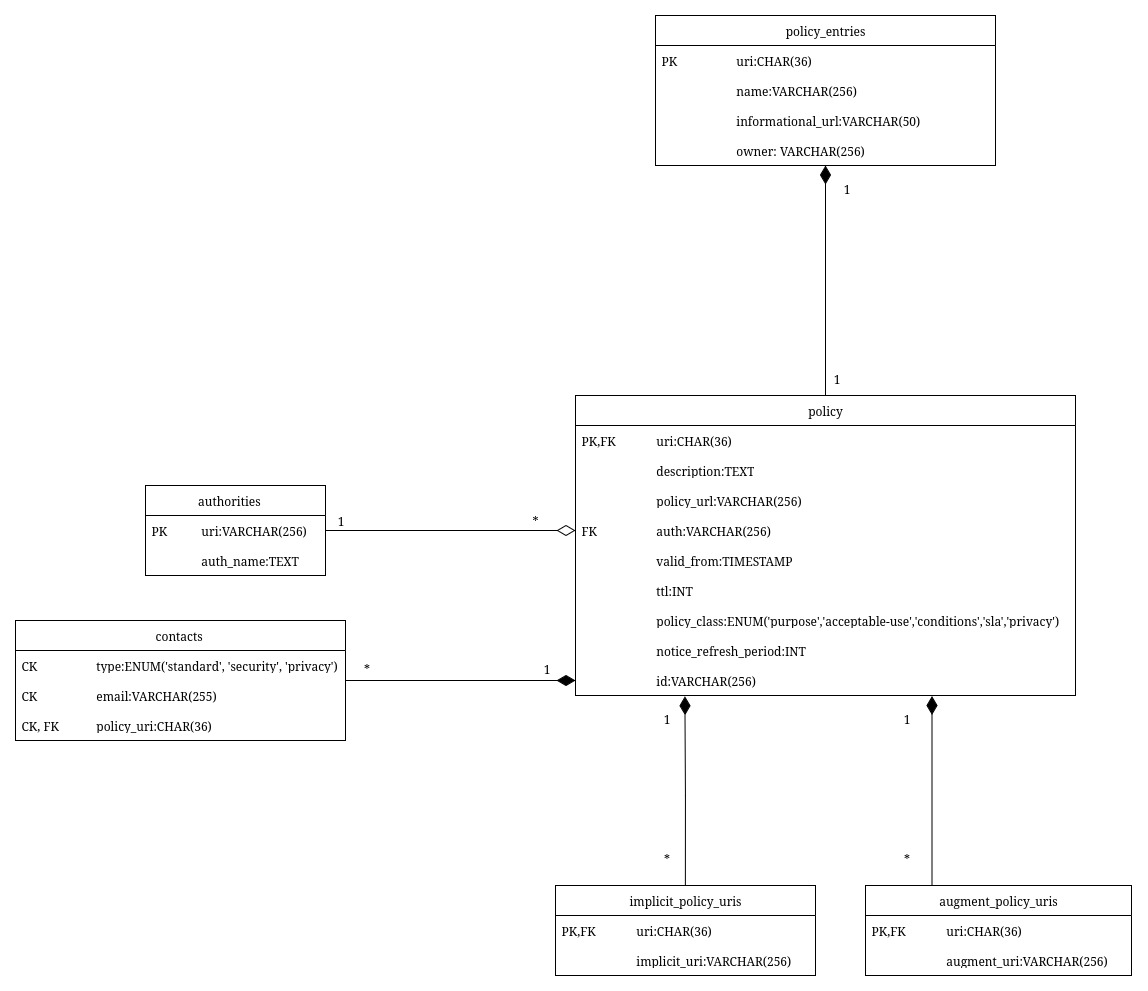
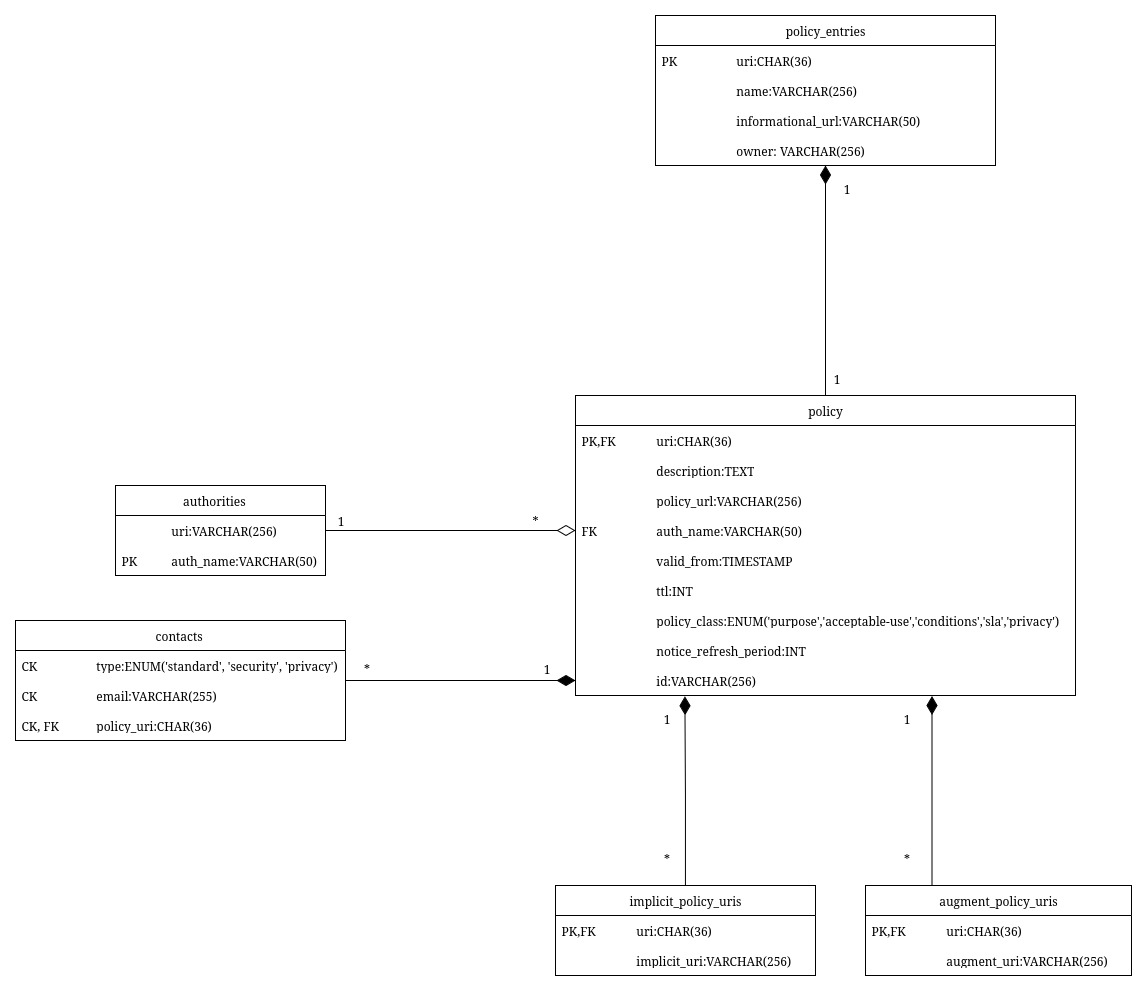
Fixed the auth_name to be primary as per the documentation

diff --git a/baseApi.py b/baseApi.py
@@ -70,12 +70,12 @@ def getPolicy(policy: str):
         SELECT p.*, c.contacts AS contacts, 
         imp.includes_policy_uris,
         aug.augment_policy_uris,
-        auth.auth_name
+        auth.uri AS aut
         FROM policy p
         LEFT JOIN contact_agg c ON p.uri = c.policy_uri
         LEFT JOIN imp_agg imp ON p.uri = imp.uri
         LEFT JOIN aug_agg aug ON p.uri = aug.uri
-        LEFT JOIN authorities auth ON p.auth = auth.uri
+        LEFT JOIN authorities auth ON p.auth_name = auth.auth_name
         WHERE p.uri = '{uri}'
         '''.format(uri=policy)
         )
